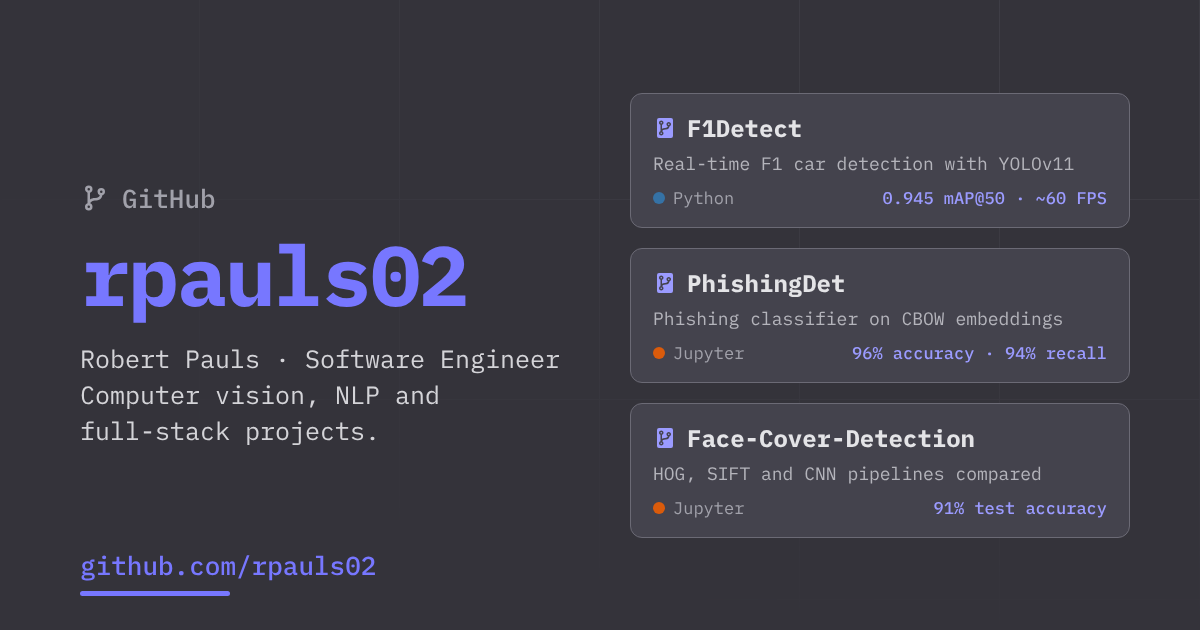
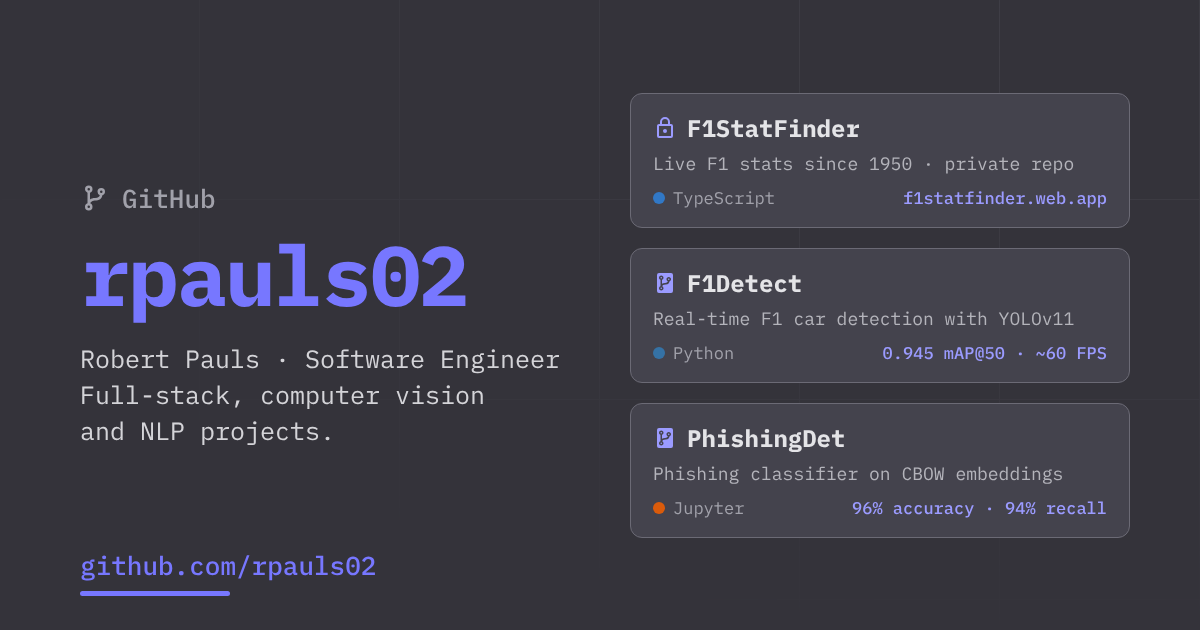
Feature F1StatFinder, F1Detect and PhishingDet on GitHub preview
Claude-Session: https://claude.ai/code/session_01ADcJ36RTerQsubveMSXg7g

diff --git a/public/github/index.html b/public/github/index.html
@@ -4,15 +4,15 @@
 <meta charset="utf-8">
 <title>Robert Pauls (rpauls02) on GitHub</title>
 <meta name="robots" content="noindex">
-<meta name="description" content="Robert Pauls's GitHub: computer vision, NLP and full-stack projects.">
+<meta name="description" content="Robert Pauls's GitHub: full-stack, computer vision and NLP projects.">
 <meta property="og:type" content="profile">
 <meta property="og:url" content="https://rpauls.dev/github">
 <meta property="og:title" content="Robert Pauls (rpauls02) on GitHub">
-<meta property="og:description" content="Computer vision, NLP and full-stack projects: F1Detect, PhishingDet, Face Cover Detection and more.">
+<meta property="og:description" content="Full-stack, computer vision and NLP projects: F1StatFinder, F1Detect, PhishingDet and more.">
 <meta property="og:image" content="https://rpauls.dev/github-preview.png">
 <meta property="og:image:width" content="1200">
 <meta property="og:image:height" content="630">
-<meta property="og:image:alt" content="github.com/rpauls02: F1Detect, PhishingDet and Face-Cover-Detection">
+<meta property="og:image:alt" content="github.com/rpauls02: F1StatFinder, F1Detect and PhishingDet">
 <meta name="twitter:card" content="summary_large_image">
 <meta name="twitter:image" content="https://rpauls.dev/github-preview.png">
 <link rel="canonical" href="https://github.com/rpauls02">
